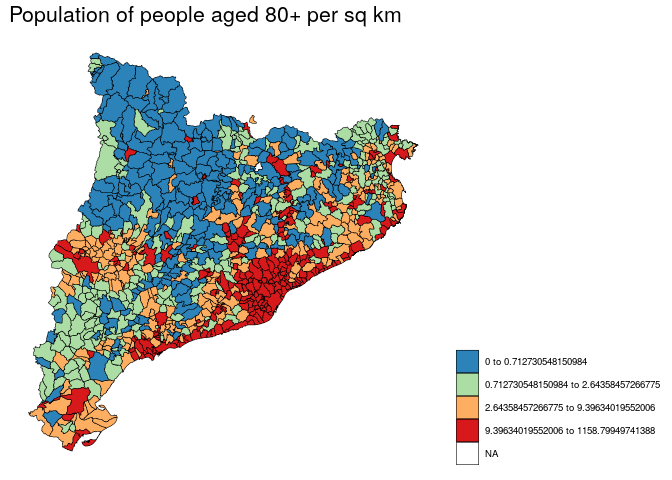
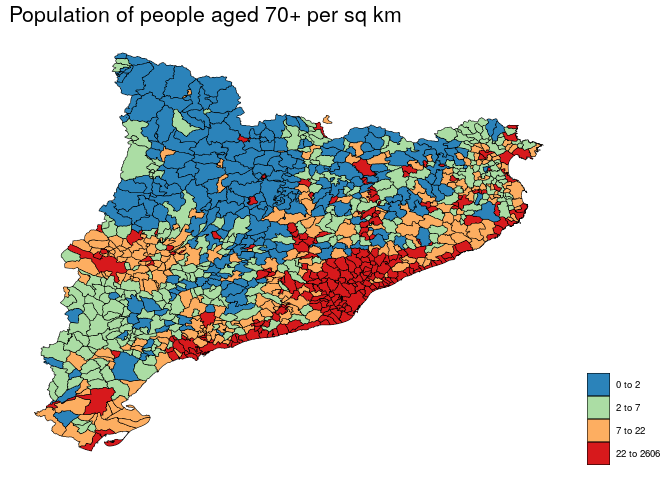
updated

diff --git a/READMEcat.md b/READMEcat.md
@@ -67,12 +67,10 @@ make_plot <- function(cut_off = 30){
   title(main = paste0(max(round(sub_pop$cp)), '% of Catalans live in the red area (', space_take_up, ' % of area)' ))
 }
 
-for(i in c( seq(30, 90, by = 10), 92, 94, 96, 98, 99)){
-  make_plot(cut_off = i)
-}
+# for(i in c( seq(30, 90, by = 10), 92, 94, 96, 98, 99)){
+#   make_plot(cut_off = i)
+# }
 ```
-
-<img src="man/figures/README-unnamed-chunk-2-1.png" width="100%" /><img src="man/figures/README-unnamed-chunk-2-2.png" width="100%" /><img src="man/figures/README-unnamed-chunk-2-3.png" width="100%" /><img src="man/figures/README-unnamed-chunk-2-4.png" width="100%" /><img src="man/figures/README-unnamed-chunk-2-5.png" width="100%" /><img src="man/figures/README-unnamed-chunk-2-6.png" width="100%" /><img src="man/figures/README-unnamed-chunk-2-7.png" width="100%" /><img src="man/figures/README-unnamed-chunk-2-8.png" width="100%" /><img src="man/figures/README-unnamed-chunk-2-9.png" width="100%" /><img src="man/figures/README-unnamed-chunk-2-10.png" width="100%" /><img src="man/figures/README-unnamed-chunk-2-11.png" width="100%" /><img src="man/figures/README-unnamed-chunk-2-12.png" width="100%" />
 
 ## Plots for 2020-04-06
 
@@ -94,10 +92,12 @@ right <- census %>%
   group_by(id) %>%
   summarise(pop = sum(total, na.rm = TRUE),
             pop60 = sum(total[edad >= 60], na.rm = TRUE),
+            pop50 = sum(total[edad >= 50], na.rm = TRUE),
             pop70 = sum(total[edad >= 70], na.rm = TRUE),
             pop80 = sum(total[edad >= 80], na.rm = TRUE),
             pop90 = sum(total[edad >= 90], na.rm = TRUE),
             popl60 = sum(total[edad < 60], na.rm = TRUE),
+            popl50 = sum(total[edad < 50], na.rm = TRUE),
             popl70 = sum(total[edad < 70], na.rm = TRUE),
             popl80 = sum(total[edad < 80], na.rm = TRUE),
             popl90 = sum(total[edad < 90], na.rm = TRUE))
@@ -108,15 +108,18 @@ map@data <-
 
 map@data <- map@data %>%
   mutate(pop_per_km = pop / area_km,
+         pop50_per_km = pop50 / area_km,
          pop60_per_km = pop60 / area_km,
          pop70_per_km = pop70 / area_km,
          pop80_per_km = pop80 / area_km,
          pop90_per_km = pop90 / area_km,
+         popl50_per_km = popl50 / area_km,
          popl60_per_km = popl60 / area_km,
          popl70_per_km = popl70 / area_km,
          popl80_per_km = popl80 / area_km,
          popl90_per_km = popl90 / area_km) %>%
   mutate(ratio60 = popl60 / pop60,
+         ratio50 = popl50 / pop50,
          ratio70 = popl70 / pop70,
          ratio80 = popl80 / pop80,
          ratio90 = popl90 / pop90)
@@ -128,11 +131,12 @@ mapf <- fortify(map, region = 'id')
 library(ggthemes)
 
 cut_pretty <- function(x, breaks, collapse=" to ", ...) {
-  it_breaks <- itertools2::ipairwise(breaks)
-  breaks_pretty <- sapply(it_breaks, paste, collapse=collapse)
   breaks[1] <- floor(breaks[1])
   breaks[length(breaks)] <- ceiling(breaks[length(breaks)]) 
   breaks[2:(length(breaks)-1)] <- round(breaks[2:(length(breaks)-1)])
+  breaks <- unique(breaks)
+  it_breaks <- itertools2::ipairwise(breaks)
+  breaks_pretty <- sapply(it_breaks, paste, collapse=collapse)
   cut(x, breaks=breaks, labels=breaks_pretty, ...)
 }
 
@@ -153,7 +157,7 @@ plot_var <- function(var = 'pop', return_table = 0, quant = T){
     out
   } else {
     if(quant){
-      x <-cut_pretty(sub_map$var, breaks = quantile(sub_map$var))
+      x <-cut_pretty(sub_map$var, breaks = unique(unique(quantile(right[,2]))))
       sub_map$var <- x
       cols <-  rev(RColorBrewer::brewer.pal(n = 4, name = 'Spectral'))
        ggplot(data = sub_map,
@@ -222,6 +226,32 @@ plot_var('pop_per_km', return_table = 10)
 10 08180                  Ripollet   8481.794 3696
 ```
 
+# Population density of 50+ year-olds
+
+``` r
+plot_var('pop50_per_km') +
+  labs(title = 'Population of people aged 50+ per sq km')
+```
+
+<img src="man/figures/README-unnamed-chunk-7-1.png" width="100%" />
+
+Top 10:
+
+``` r
+plot_var('pop50_per_km', return_table = 10)
+      id                       Nom pop50_per_km  pop
+1  08101 L'Hospitalet de Llobregat     6896.603 5728
+2  08019                 Barcelona     6358.540 2257
+3  08245  Santa Coloma de Gramenet     5766.728 1193
+4  08904          Badia del Vallès     5177.355  866
+5  08172             Premià de Mar     4975.606 1091
+6  08073     Cornellà de Llobregat     4473.488  162
+7  08077    Esplugues de Llobregat     4051.669  201
+8  08015                  Badalona     3598.046 2237
+9  08194       Sant Adrià de Besòs     2995.734 1510
+10 08118                 El Masnou     2562.285 3696
+```
+
 # Population density of 60+ year-olds
 
 ``` r
@@ -229,7 +259,7 @@ plot_var('pop60_per_km') +
   labs(title = 'Population of people aged 60+ per sq km')
 ```
 
-<img src="man/figures/README-unnamed-chunk-7-1.png" width="100%" />
+<img src="man/figures/README-unnamed-chunk-9-1.png" width="100%" />
 
 Top 10:
 
@@ -255,7 +285,7 @@ plot_var('pop70_per_km') +
   labs(title = 'Population of people aged 70+ per sq km')
 ```
 
-<img src="man/figures/README-unnamed-chunk-9-1.png" width="100%" />
+<img src="man/figures/README-unnamed-chunk-11-1.png" width="100%" />
 
 Top 10:
 
@@ -281,7 +311,7 @@ plot_var('pop80_per_km') +
   labs(title = 'Population of people aged 80+ per sq km')
 ```
 
-<img src="man/figures/README-unnamed-chunk-11-1.png" width="100%" />
+<img src="man/figures/README-unnamed-chunk-13-1.png" width="100%" />
 
 Top 10:
 
@@ -300,6 +330,34 @@ plot_var('pop80_per_km', return_table = 10)
 10 08118                 El Masnou     363.6092 3696
 ```
 
+# Ratio of under-50s to 50+
+
+(ie, ratio of protectors to protected)
+
+``` r
+plot_var('ratio50') +
+  labs(title = 'Ratio of under-50s to 50+')
+```
+
+<img src="man/figures/README-unnamed-chunk-15-1.png" width="100%" />
+
+Top 10:
+
+``` r
+plot_var('ratio50', return_table = 10)
+      id                      Nom  ratio50  pop
+1  43109      La Pobla de Mafumet 4.299270 5728
+2  25110                 Guissona 3.985030 2257
+3  08167                  Polinyà 3.712624 1193
+4  43100           Els Pallaresos 3.465711  866
+5  17049                    Celrà 3.395455 1091
+6  43122                    Renau 3.281250  162
+7  25228             Torrefarrera 3.272906  201
+8  43103                 Perafort 3.203333 2237
+9  43119                Puigpelat 3.160643 1510
+10 08162 Els Hostalets de Pierola 3.072136 3696
+```
+
 # Ratio of under-60s to 60+
 
 (ie, ratio of protectors to protected)
@@ -309,7 +367,7 @@ plot_var('ratio60') +
   labs(title = 'Ratio of under-60s to 60+')
 ```
 
-<img src="man/figures/README-unnamed-chunk-13-1.png" width="100%" />
+<img src="man/figures/README-unnamed-chunk-17-1.png" width="100%" />
 
 Top 10:
 
@@ -337,7 +395,7 @@ plot_var('ratio70') +
   labs(title = 'Ratio of under-70s to 70+')
 ```
 
-<img src="man/figures/README-unnamed-chunk-15-1.png" width="100%" />
+<img src="man/figures/README-unnamed-chunk-19-1.png" width="100%" />
 
 Top 10:
 
@@ -365,7 +423,7 @@ plot_var('ratio80') +
   labs(title = 'Ratio of under-80s to 80+')
 ```
 
-<img src="man/figures/README-unnamed-chunk-17-1.png" width="100%" />
+<img src="man/figures/README-unnamed-chunk-21-1.png" width="100%" />
 
 Top 10:
 
